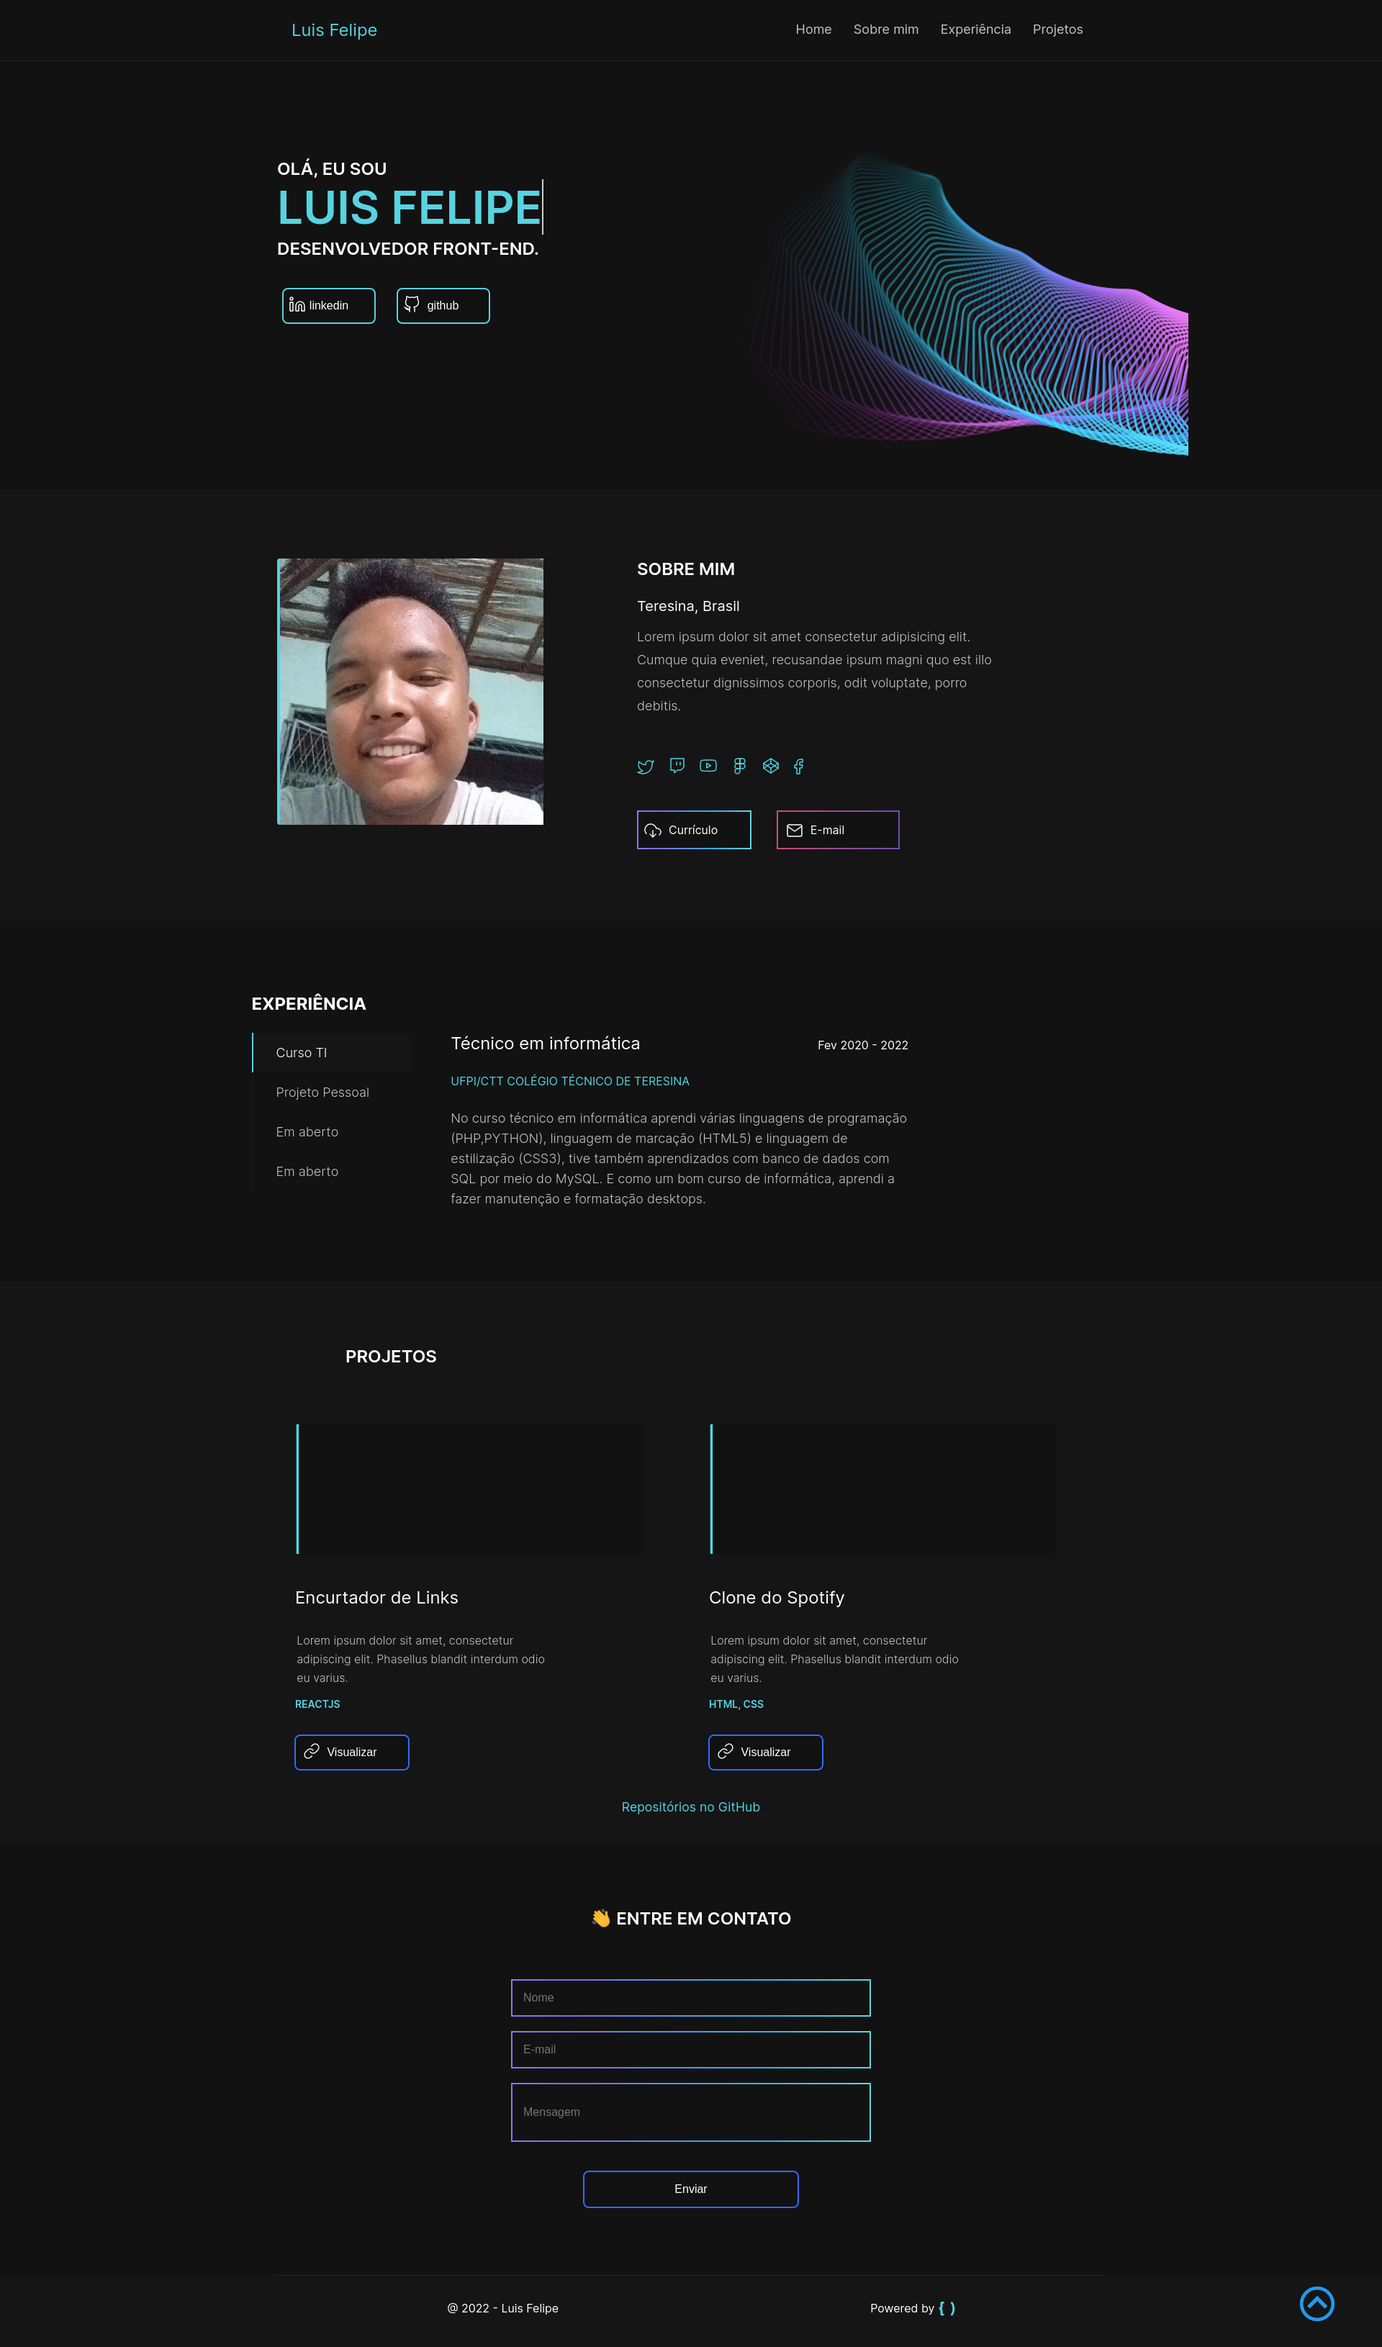
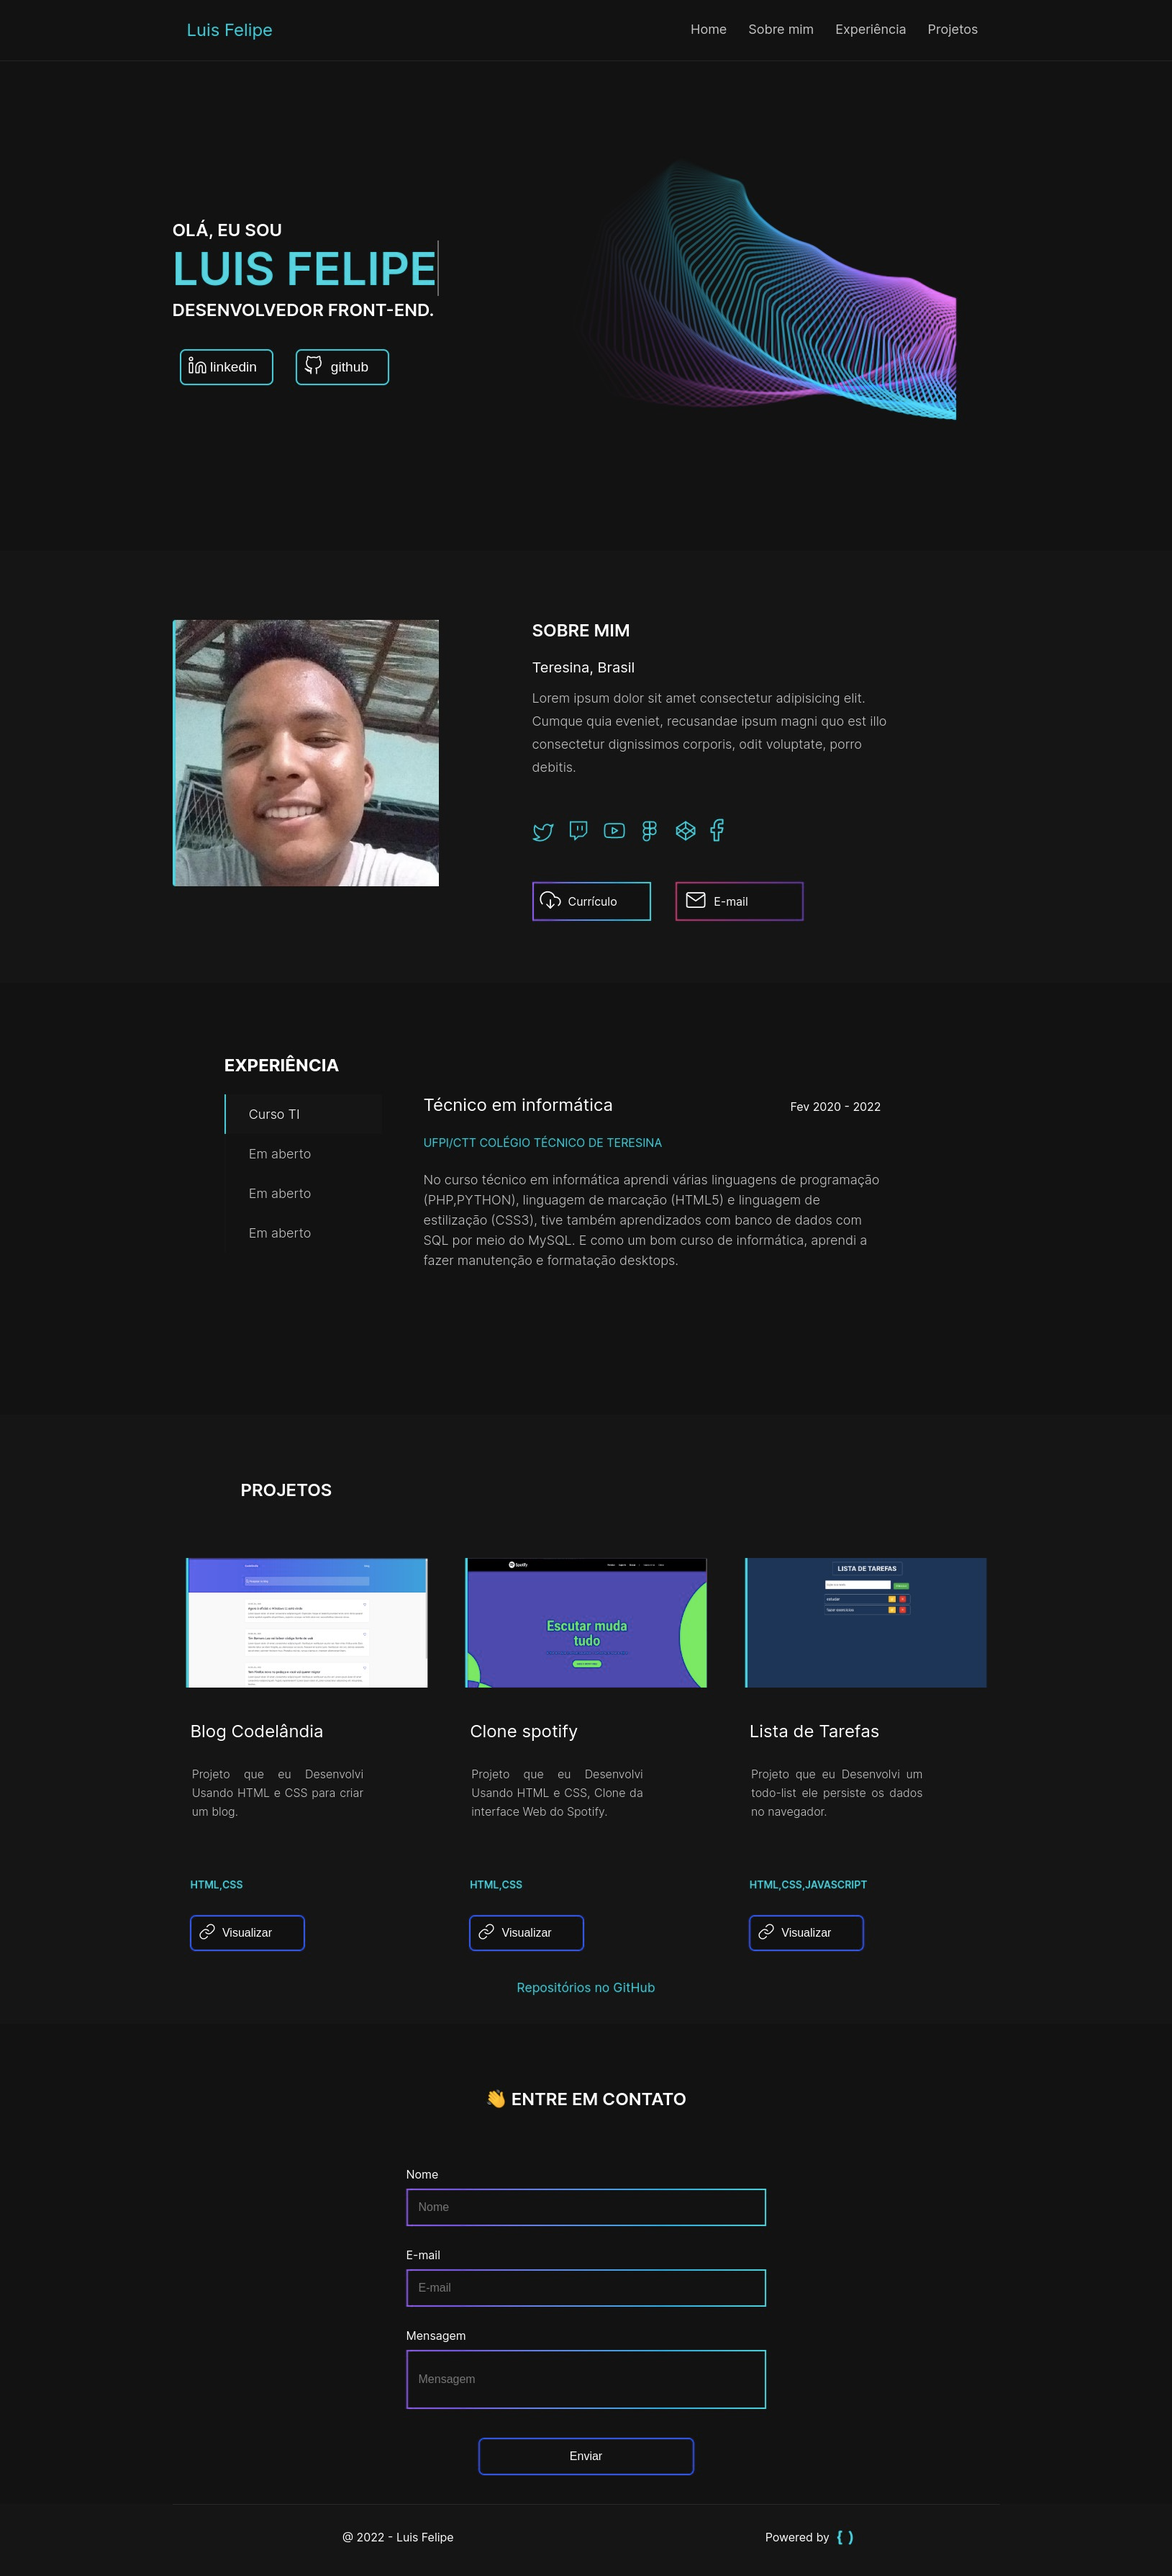
update project

diff --git a/dist/js/index.js b/dist/js/index.js
@@ -1,0 +1,77 @@
+"use strict";
+const sr = ScrollReveal({ reset: true });
+sr.reveal('.section-container', { duration: 2500 });
+sr.reveal('.divisao', { duration: 2500 });
+ScrollReveal().reveal('.projetos-container', { duration: 2500 });
+const xpUser = [
+    {
+        name: 'Curso TI',
+        titulo: 'Técnico em Informática',
+        data: 'Fev 2020 - 2022 - atual',
+        local: 'UFPI/CTT COLÉGIO TÉCNICO DE TERESINA',
+        descricao: 'No curso técnico em informática aprendi várias linguagens de programação (PHP, PYTHON), linguagem de marcação (HTML5) e linguagem de estilização (CSS3), tive também aprendizados com banco de dados com SQL por meio do MySQL. E como um bom curso de informática, aprendi a fazer manutenção e formatação de desktops.',
+    },
+    {
+        name: 'Em aberto',
+        titulo: 'xxxx',
+        data: '00/00/0000',
+        local: 'xxxx',
+        descricao: 'xxxx',
+    },
+    {
+        name: 'Em aberto',
+        titulo: 'xxxx',
+        data: '00/00/0000',
+        local: 'xxxx',
+        descricao: 'xxxx',
+    },
+    {
+        name: 'Em aberto',
+        titulo: 'xxxx',
+        data: '00/00/0000',
+        local: 'xxxx',
+        descricao: 'xxxx',
+    },
+];
+const clicadoLi = document.querySelectorAll('.xp .li');
+function experiencia(e) {
+    const ativo = document.querySelector('.xp .ativo');
+    const i = document.querySelector('.titulo');
+    const o = document.querySelector('.data');
+    const r = document.querySelector('.local');
+    const a = document.querySelector('.desc2');
+    const xpLoop = xpUser.forEach((xp, index) => {
+        const { name, titulo, data, local, descricao } = xp;
+        if (index === e) {
+            ativo.innerHTML = name;
+            i.innerHTML = titulo;
+            o.innerHTML = data;
+            r.innerHTML = local;
+            a.innerHTML = descricao;
+            return;
+        }
+    });
+}
+clicadoLi.forEach((e, i) => {
+    e.addEventListener('click', () => {
+        clicadoLi.forEach((e) => {
+            e.classList.remove('ativo');
+        }),
+            e.classList.add('ativo'),
+            experiencia(i);
+    });
+});
+const subirTopo = () => {
+    window.scrollTo({ top: 0, behavior: 'smooth' });
+};
+function btnMostraOculta() {
+    if (0 === window.scrollY) {
+        const scroll = document.querySelector('.scroll');
+        scroll.style.display = 'none';
+    }
+    else {
+        const scrollBlock = document.querySelector('.scroll');
+        scrollBlock.style.display = 'block';
+    }
+}
+window.addEventListener('scroll', btnMostraOculta);

diff --git a/dist/js/data.js b/dist/js/data.js
@@ -1,0 +1,41 @@
+"use strict";
+const dados = [
+    {
+        image_url: './src/img/desafio-1-recorte.png',
+        nameProject: 'Blog Codelândia',
+        descricao: 'Projeto que eu Desenvolvi Usando HTML e CSS para criar um blog.',
+        tech: 'HTML,CSS',
+        gitHubLink: 'https://github.com/luisfelipecode/blog-desafio-1',
+    },
+    {
+        image_url: './src/img/preview-project-spotify.png',
+        nameProject: 'Clone spotify',
+        descricao: 'Projeto que eu Desenvolvi Usando HTML e CSS, Clone da interface Web do Spotify.',
+        tech: 'HTML,CSS',
+        gitHubLink: 'https://github.com/luisfelipecode/spotify-clone',
+    },
+    {
+        image_url: './src/img/todo-list.png',
+        nameProject: 'Lista de Tarefas',
+        descricao: 'Projeto que eu Desenvolvi um todo-list ele persiste os dados no navegador.',
+        tech: 'HTML,CSS,Javascript',
+        gitHubLink: 'https://github.com/luisfelipecode/lista-tarefas',
+    },
+];
+function renderProjects() {
+    const imagemDoProjeto = document.querySelectorAll('.image-project');
+    const nomeDoProjeto = document.querySelectorAll('.name-project');
+    const description = document.querySelectorAll('.description');
+    const technologies = document.querySelectorAll('.technologies');
+    const linkDoProjeto = document.querySelectorAll('.gitHub-link');
+    return dados.forEach((dado, index) => {
+        const { nameProject, descricao, tech, gitHubLink } = dado;
+        imagemDoProjeto[index].setAttribute('src', dado.image_url);
+        imagemDoProjeto[index].setAttribute('alt', nameProject);
+        nomeDoProjeto[index].innerHTML = nameProject;
+        description[index].innerHTML = descricao;
+        technologies[index].innerHTML = tech;
+        linkDoProjeto[index].setAttribute('href', gitHubLink);
+    });
+}
+renderProjects();

diff --git a/dist/js/mobile.js b/dist/js/mobile.js
@@ -1,0 +1,14 @@
+"use strict";
+const btnMobile = document.getElementById('btn-mobile');
+function toggleMenu(event) {
+    'touchstart' === event.type ? event.preventDefault() : null;
+    const nav = document.getElementById('nav');
+    nav.classList.toggle('active');
+    const active = nav.classList.contains('active');
+    btnMobile.classList.toggle('active', active);
+    nav.addEventListener('click', (event) => {
+        event.target.tagName === 'A' ? nav.classList.remove('active') : null;
+    });
+}
+btnMobile.addEventListener('click', toggleMenu),
+    btnMobile.addEventListener('touchstart', toggleMenu);
